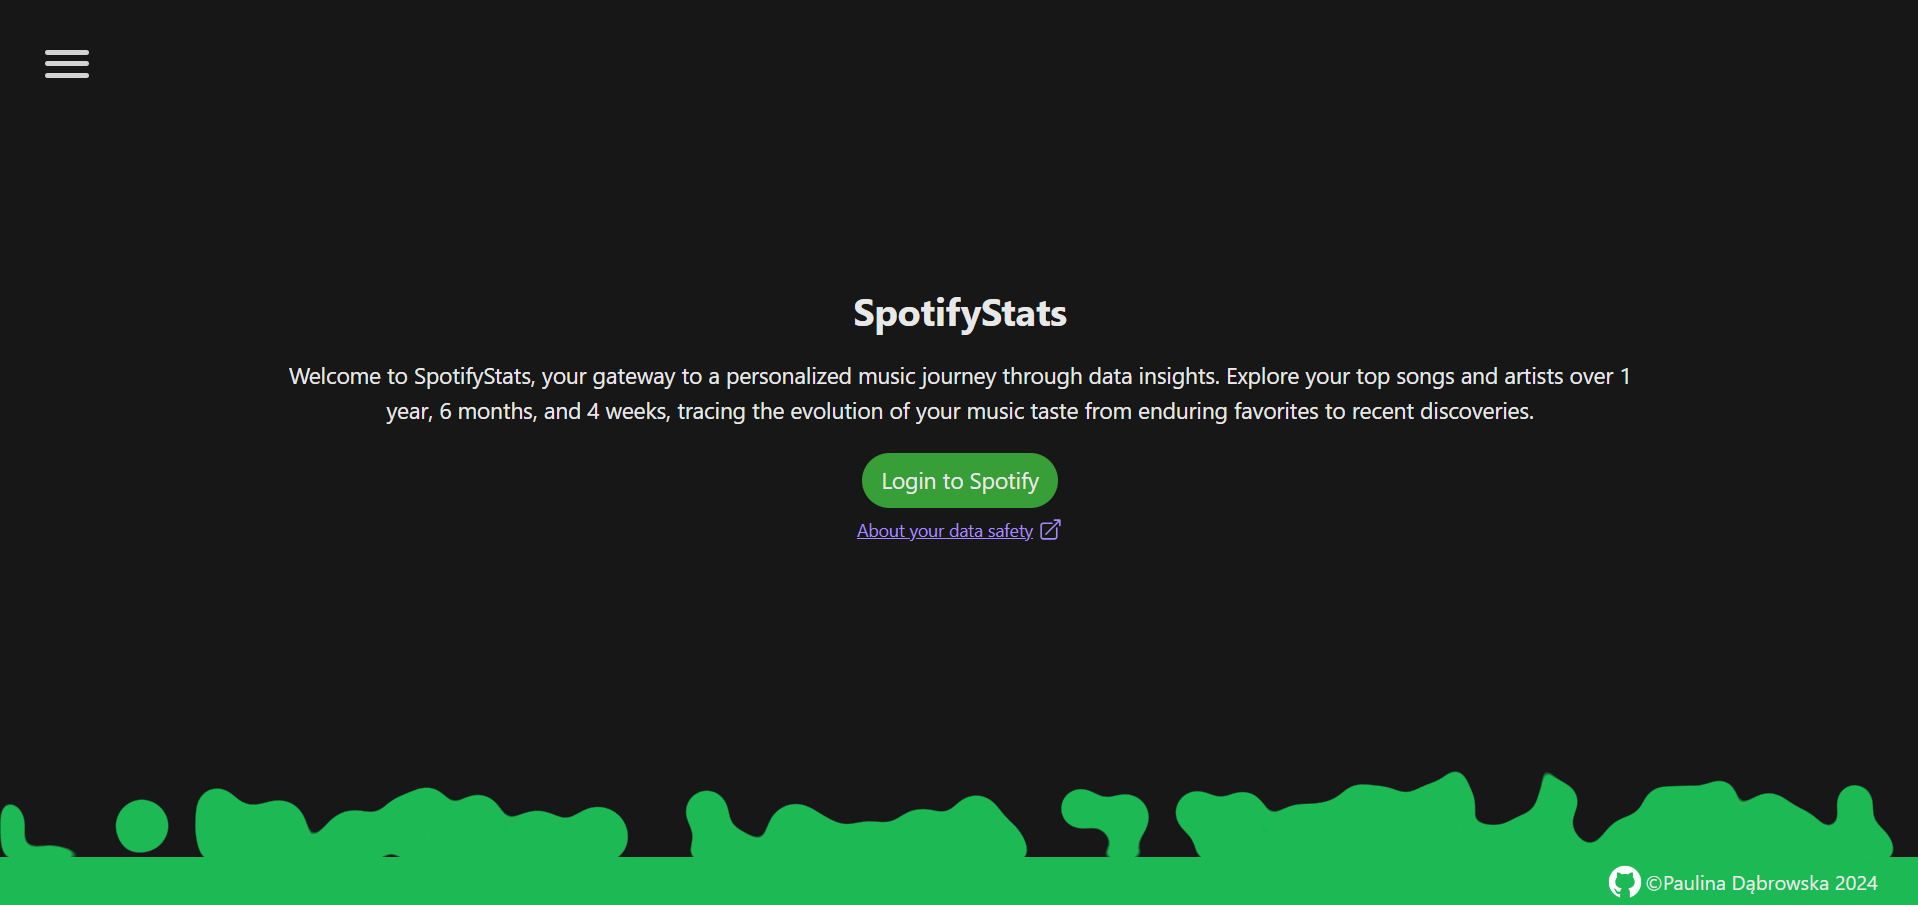
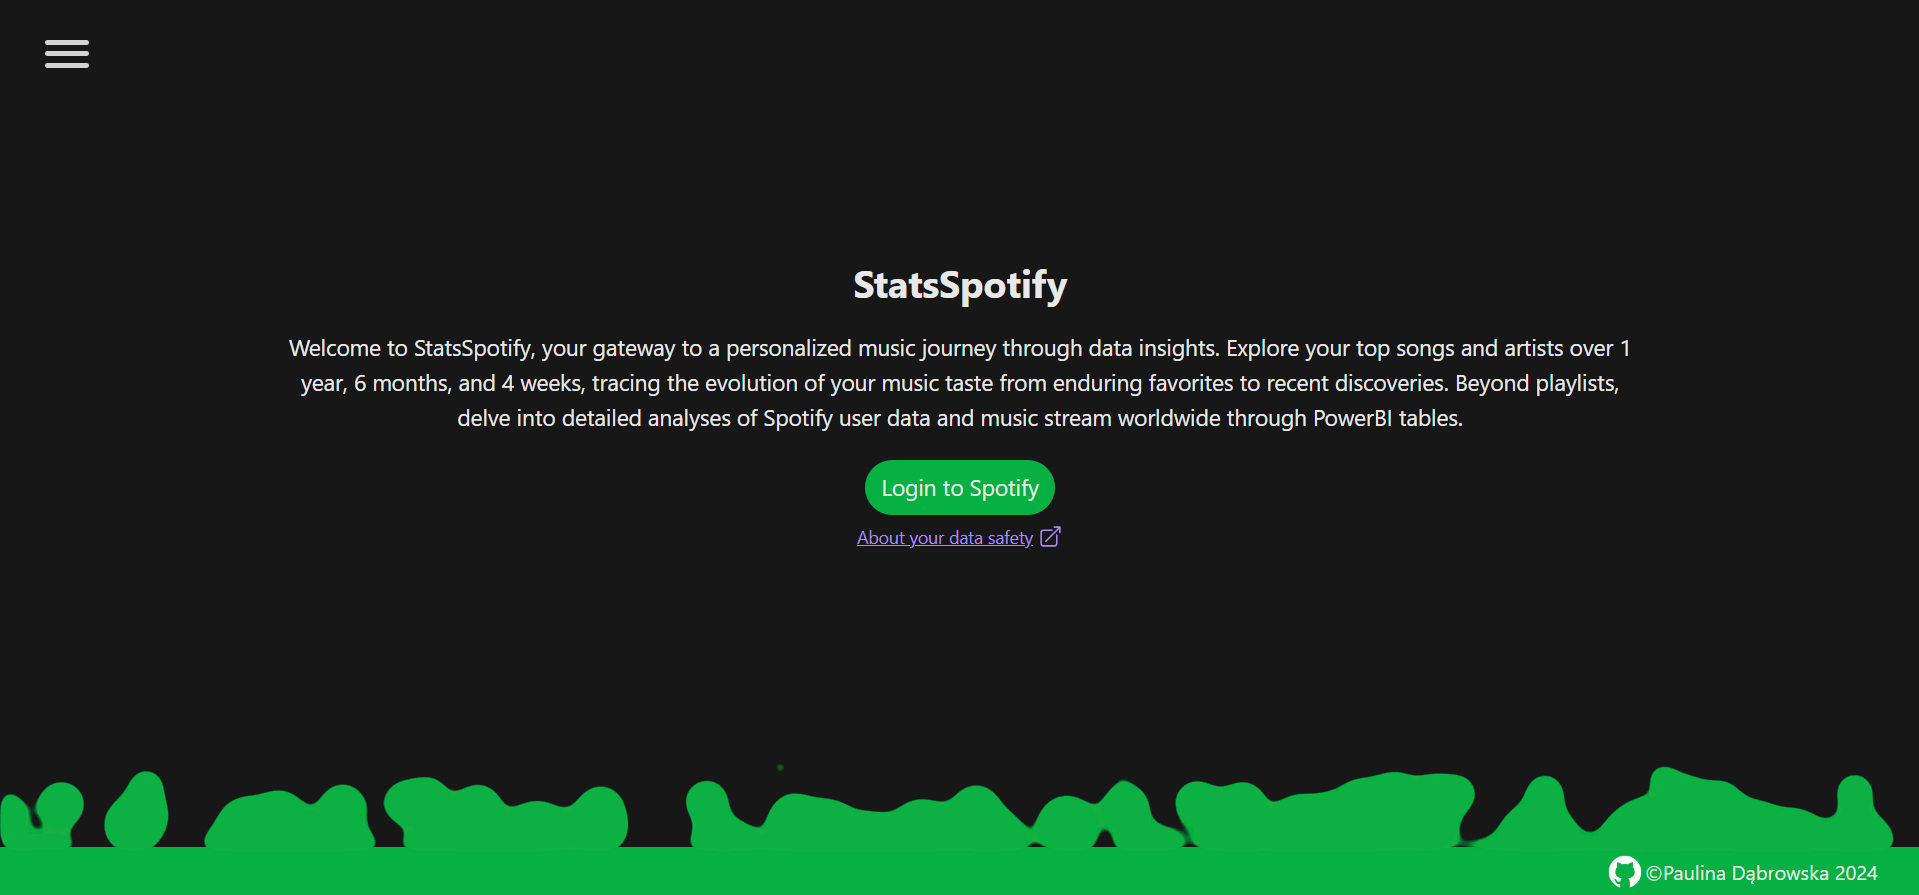
changed name to StatsSpotify

diff --git a/src/pages/About.js b/src/pages/About.js
@@ -18,9 +18,9 @@ export const About = () => {
       >
         <h1
           className='text-lg font-bold'
-        >What is SpotifyStats?</h1>
+        >What is StatsSpotify?</h1>
         <p>
-          SpotifyStats is a web app designed to offer users an insightful glimpse into their Spotify listening habits whenever they want. The focus is on two key elements - top artists and top songs. The user is also able to check the popularity of the song/artist they listened to.
+          StatsSpotify is a web app designed to offer users an insightful glimpse into their Spotify listening habits whenever they want. The focus is on two key elements - top artists and top songs. The user is also able to check the popularity of the song/artist they listened to.
           &#40;
           <button
             className='underline text-violet-200 hover:text-violet-400'
@@ -33,7 +33,7 @@ export const About = () => {
             more about popularity&gt;&gt;
           </button>
           &#41; <br/><br/>
-          In SpotifyStats the Spotify Web API is used. The official documentation and more about policies of Spotify API:
+          In StatsSpotify the Spotify Web API is used. The official documentation and more about policies of Spotify API:
           <Link 
             to={'https://developer.spotify.com/documentation/web-api'}
             className='underline ml-[3px] text-violet-200 hover:text-violet-400'

diff --git a/README.md b/README.md
@@ -1,6 +1,6 @@
-## About The SpotifyStats:
+## About The StatsSpotify:
 It is a responsive web app, which allows the user to check their Spotify wrapped and share/download the result. Made with Spotify API.
-SpotifyStats has the section which showcase the analysis of Spotify user behavior and most streamed songs in 2023 (based on Kaggle datasets). The dashboards were created in Power BI
+StatsSpotify has the section which showcase the analysis of Spotify user behavior and most streamed songs in 2023 (based on Kaggle datasets). The dashboards were created in Power BI
 
 This website is still in development, because of Spotify Policy if you want to login you have to be added manually as the user by me.
 ## Link to the website:
@@ -8,7 +8,7 @@ Access my site at https://spotify-stats24.web.app/
 ## Table of Content:
 <ul>
   <li>
-    <a href="#about-the-SpotifyStats">About the App</a>
+    <a href="#about-the-StatsSpotify">About the App</a>
   </li>
   <li>
     <a href="#screenshots">Screenshots</a>
